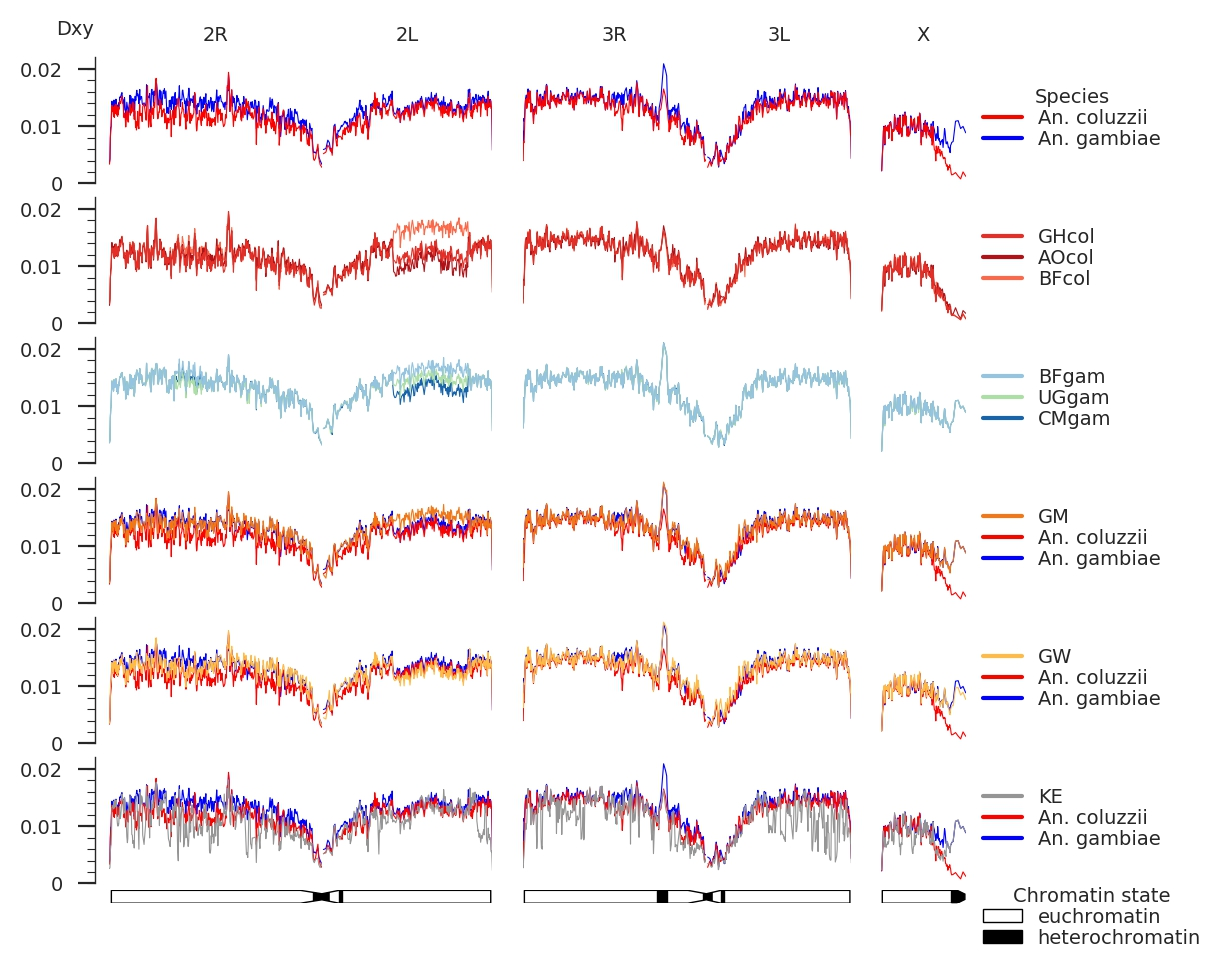
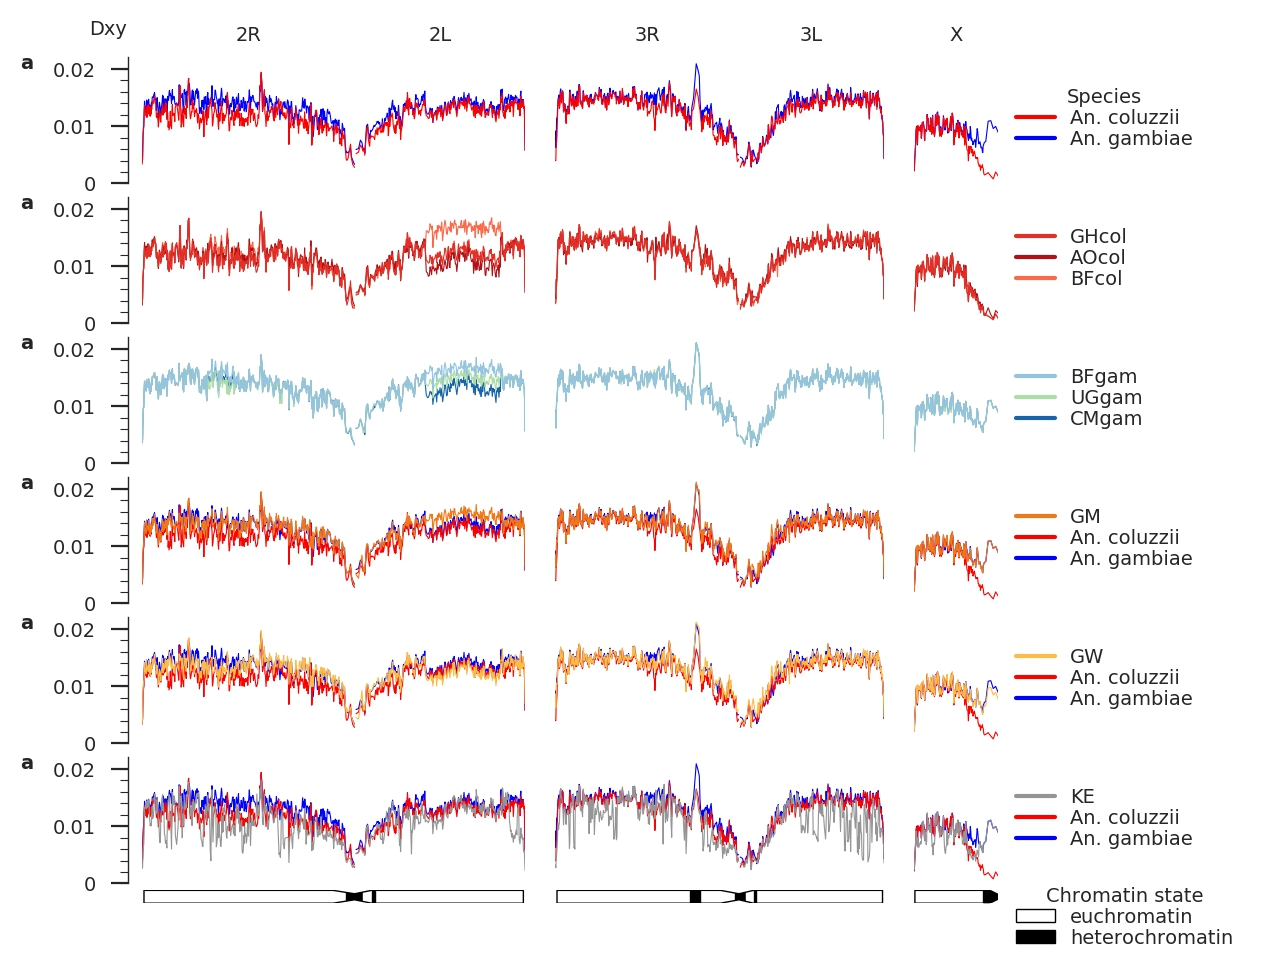
Added capability to print subplot letters in combined plot

diff --git a/notebooks/refdiff/refdiff_phase2_plots.py b/notebooks/refdiff/refdiff_phase2_plots.py
@@ -143,7 +143,7 @@ for chrom in chroms:
 	dxy_by_window[chrom].columns = [re.sub('_F$', '', x) for x in dxy_by_window[chrom].columns]
 
 # Now plot the dxy along the chromsomomes
-def plot_dxy(chrom, ax, dxy, pops=None, offset=5, legend_offset=0, legend_frameon=False, labely = True, **kwargs):
+def plot_dxy(chrom, ax, dxy, pops=None, offset=5, legend_offset=0, legend_frameon=False, labely = True, sublabel = '', **kwargs):
 	if chrom == '2R':
 		sns.despine(ax=ax, bottom=True, offset=offset)
 		ax.set_yticks([0, 0.01, 0.02], minor=False)
@@ -152,6 +152,8 @@ def plot_dxy(chrom, ax, dxy, pops=None, offset=5, legend_offset=0, legend_frameo
 		ax.yaxis.set_label_coords(-0.25, 1.3)
 		if labely:
 			ax.set_ylabel('Dxy', ha='left', va='top', rotation=0)
+		# Add the plot sublabel
+		plt.text(-35000000,0.02,sublabel, fontweight = 'bold')
 	else:
 		sns.despine(ax=ax, left=True, bottom=True, offset=offset)
 		ax.set_yticks([])
@@ -226,7 +228,7 @@ def fig_assemble(populations, fw=4.3, fn=None, dpi=150, save_dpi=200, legend_fra
 				ylab = True
 			else:
 				ylab = False
-			fig_linear_genome(plot_dxy, phase2_ar1.genome_agamp3, chromomsomes = chroms, fig=fig, bottom=b, height=h, legend_offset = -0.6, legend_frameon=legend_frameon, labely = ylab, dxy = dxy_by_window, pops = pl)
+			fig_linear_genome(plot_dxy, phase2_ar1.genome_agamp3, chromomsomes = chroms, fig=fig, bottom=b, height=h, legend_offset = -0.6, legend_frameon=legend_frameon, labely = ylab, dxy = dxy_by_window, pops = pl, sublabel = 'a')
 		fig_linear_genome(plot_heterochromatin, phase2_ar1.genome_agamp3, fig=fig, bottom=0, height=hetploth/1.5, legend_offset=-3, legend_frameon=legend_frameon, clip_patch_kwargs=dict(edgecolor='k', lw=.5), tbl_chr = tbl_chromatin)
 	else:
 		fh = 0.8
@@ -242,15 +244,15 @@ def fig_assemble(populations, fw=4.3, fn=None, dpi=150, save_dpi=200, legend_fra
 			fig.savefig(fn, jpeg_quality=100, dpi=save_dpi, bbox_inches='tight')
 
 
-fig_assemble(['BFcol', 'AOcol', 'GHcol'], fn = 'refdiff_phase2_col.jpg')
-fig_assemble(['CMgam', 'UGgam', 'BFgam'], fn = 'refdiff_phase2_gam.jpg')
-fig_assemble(['GM', 'GW', 'KE'], fn = 'refdiff_phase2_unk.jpg')
-fig_assemble(['An. gambiae', 'An. coluzzii'], fn = 'refdiff_phase2_species.jpg')
-fig_assemble(['CMgam', 'KE'], fn = 'refdiff_phase2_KE_vs_CM.jpg')
-fig_assemble(['AOcol', 'GM', 'GW'], fn = 'refdiff_phase2_GMGW_vs_AOcol.jpg')
-fig_assemble(['An. gambiae', 'An. coluzzii', 'GM'], fn = 'refdiff_phase2_GM_vs_species.jpg')
-fig_assemble(['An. gambiae', 'An. coluzzii', 'GW'], fn = 'refdiff_phase2_GW_vs_species.jpg')
-fig_assemble(['An. gambiae', 'An. coluzzii', 'KE'], fn = 'refdiff_phase2_KE_vs_species.jpg')
+#fig_assemble(['BFcol', 'AOcol', 'GHcol'], fn = 'refdiff_phase2_col.jpg')
+#fig_assemble(['CMgam', 'UGgam', 'BFgam'], fn = 'refdiff_phase2_gam.jpg')
+#fig_assemble(['GM', 'GW', 'KE'], fn = 'refdiff_phase2_unk.jpg')
+#fig_assemble(['An. gambiae', 'An. coluzzii'], fn = 'refdiff_phase2_species.jpg')
+#fig_assemble(['CMgam', 'KE'], fn = 'refdiff_phase2_KE_vs_CM.jpg')
+#fig_assemble(['AOcol', 'GM', 'GW'], fn = 'refdiff_phase2_GMGW_vs_AOcol.jpg')
+#fig_assemble(['An. gambiae', 'An. coluzzii', 'GM'], fn = 'refdiff_phase2_GM_vs_species.jpg')
+#fig_assemble(['An. gambiae', 'An. coluzzii', 'GW'], fn = 'refdiff_phase2_GW_vs_species.jpg')
+#fig_assemble(['An. gambiae', 'An. coluzzii', 'KE'], fn = 'refdiff_phase2_KE_vs_species.jpg')
 
 # And now the full combined figure
 fig_assemble([['An. gambiae', 'An. coluzzii'], 
